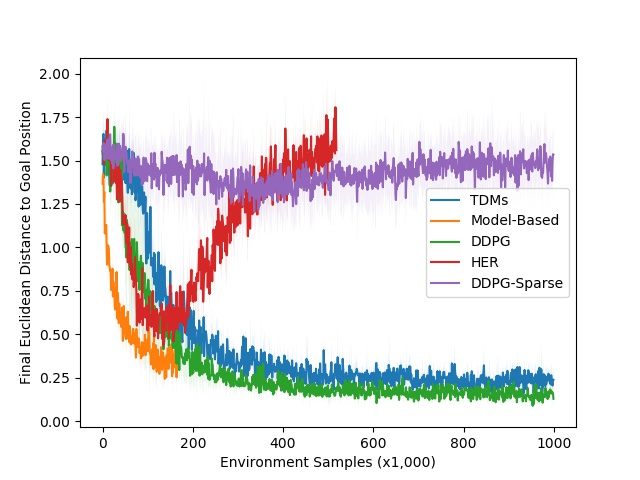
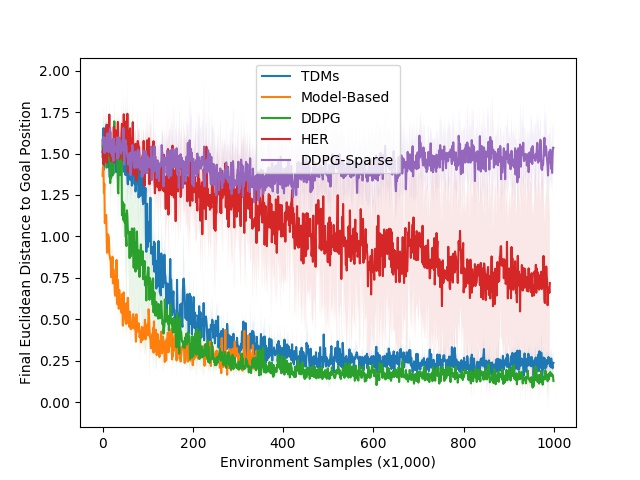
update ant, cheetah, and cheetah-xpos plots

diff --git a/experiments/state_distance/iclr2018/cheetah_xpos_results.py b/experiments/state_distance/iclr2018/cheetah_xpos_results.py
@@ -2,20 +2,20 @@ from railrl.misc.data_processing import Experiment
 import matplotlib.pyplot as plt
 import numpy as np
 
-ddpg_trials = Experiment(
-    "/home/vitchyr/git/railrl/data/doodads3/12-17-tdm-half-cheetah-xpos/"
-).get_trials({
-    'algorithm': 'DDPG',
-    'multitask': True,
-    'exp_id': '0',
-})
-tdm_trials = Experiment(
-    "/home/vitchyr/git/railrl/data/doodads3/12-17-tdm-half-cheetah-xpos/"
-).get_trials({
-    'algorithm': 'DDPG-TDM',
-    'multitask': True,
-    'exp_id': '3',
-})
+# ddpg_trials = Experiment(
+#     "/home/vitchyr/git/railrl/data/doodads3/12-17-tdm-half-cheetah-xpos/"
+# ).get_trials({
+#     'algorithm': 'DDPG',
+#     'multitask': True,
+#     'exp_id': '0',
+# })
+# tdm_trials = Experiment(
+#     "/home/vitchyr/git/railrl/data/doodads3/12-17-tdm-half-cheetah-xpos/"
+# ).get_trials({
+#     'algorithm': 'DDPG-TDM',
+#     'multitask': True,
+#     'exp_id': '3',
+# })
 mb_trials = Experiment(
     "/home/vitchyr/git/railrl/data/doodads3/12-24-dagger-mb-ant-cheetah-pos-and-vel/"
 ).get_trials({
@@ -31,17 +31,16 @@ ddpg_indicator_trials = Experiment(
 her_andry_trials = Experiment(
     "/home/vitchyr/git/railrl/data/doodads3/12-24-her-andrychowicz-cheetah-xpos-rebutal/"
 ).get_trials({
-    'exp_id': '5',
+    'exp_id': '20',
 })
 
 MAX_ITERS = 10000
 plt.figure()
-base_key = 'Final_Distances_to_goal_Mean'
-key2 = 'Final_Distance_to_goal_Mean'
+base_key = 'Final_Distance_to_goal_Mean'
 for trials, name, key in [
-    (tdm_trials, 'TDM', base_key),
-    (mb_trials, 'Model Based', key2),
-    (ddpg_trials, 'DDPG', base_key),
+    # (tdm_trials, 'TDM', base_key),
+    (mb_trials, 'Model Based', base_key),
+    # (ddpg_trials, 'DDPG', base_key),
     (her_andry_trials, 'HER', base_key),
     (ddpg_indicator_trials, 'DDPG-Sparse', base_key),
 ]:

diff --git a/experiments/state_distance/iclr2018/ant_results.py b/experiments/state_distance/iclr2018/ant_results.py
@@ -3,22 +3,19 @@ import matplotlib.pyplot as plt
 import numpy as np
 
 def main():
-    ant_her_final_exp = Experiment(
-        "/home/vitchyr/git/railrl/data/doodads3/12-23-her-andrychowicz-ant-rebutal/"
-    )
-    ant_tdm_exp = Experiment(
-        "/home/vitchyr/git/railrl/data/doodads3/12-24-ddpg-nupo-sweep-ant/"
-    )
-
     ddpg_trials = Experiment(
         "/home/vitchyr/git/railrl/data/doodads3/12-23-ddpg-nupo-sweep-ant/"
     ).get_trials({
         'exp_id': '19',
     })
-    her_andrychowicz_trials = ant_her_final_exp.get_trials({
-        'exp_id': '10',
+    her_andrychowicz_trials = Experiment(
+        "/home/vitchyr/git/railrl/data/doodads3/12-23-her-andrychowicz-ant-rebutal/"
+    ).get_trials({
+        'exp_id': '14',
     })
-    ddpg_tdm_trials = ant_tdm_exp.get_trials({
+    ddpg_tdm_trials = Experiment(
+        "/home/vitchyr/git/railrl/data/doodads3/12-24-ddpg-nupo-sweep-ant/"
+    ).get_trials({
         'exp_id': '12',
     })
     ddpg_indicator_trials = Experiment(

diff --git a/experiments/state_distance/iclr2018/cheetah_results.py b/experiments/state_distance/iclr2018/cheetah_results.py
@@ -3,7 +3,6 @@ import matplotlib.pyplot as plt
 import numpy as np
 
 mb_trials = Experiment(
-    # "/home/vitchyr/git/railrl/data/doodads3/12-13-abhishek-mb-cheetah-max-vel5/"
     "/home/vitchyr/git/railrl/data/doodads3/12-24-dagger-mb-ant-cheetah-pos-and-vel/"
 ).get_trials({
     'exp_id': '0',
@@ -23,7 +22,7 @@ tdm_trials = Experiment(
 ddpg_indicator_trials = Experiment(
     "/home/vitchyr/git/railrl/data/doodads3/12-24-ddpg-sparse-no-relabel-cheetah-xvel/"
 ).get_trials({
-    'exp_id': '1',
+    'exp_id': '7',
 })
 her_andry_trials = Experiment(
     "/home/vitchyr/git/railrl/data/doodads3/12-24-her-andrychowicz-cheetah-xvel-rebutal/"
